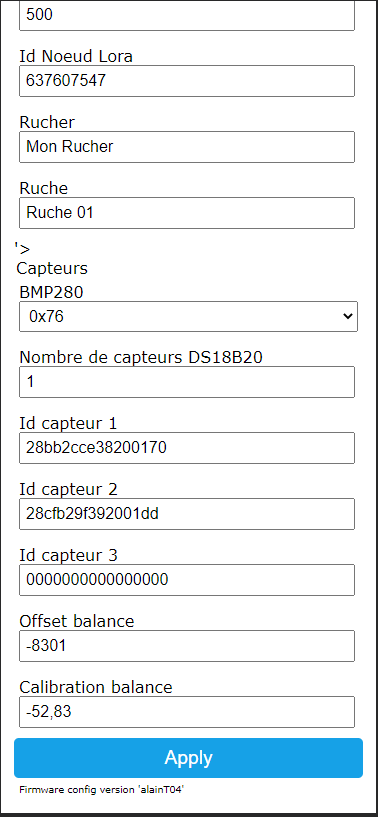
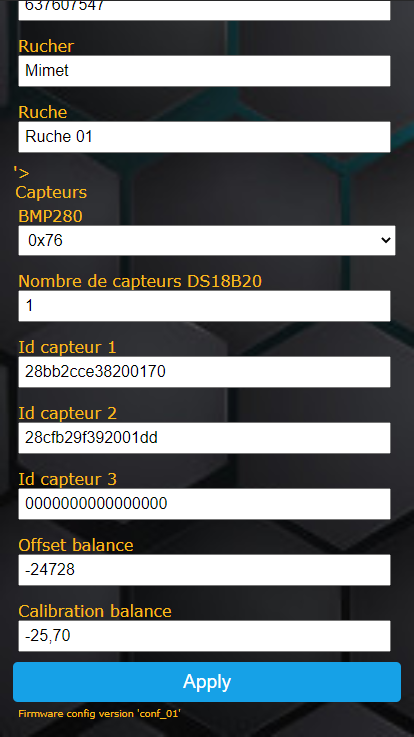
New Design Web Server

diff --git a/src/style.h b/src/style.h
@@ -1,0 +1,31 @@
+/*
+
+This program is free software: you can redistribute it and/or modify
+it under the terms of the GNU General Public License as published by
+the Free Software Foundation, either version 3 of the License, or
+(at your option) any later version.
+
+This program is distributed in the hope that it will be useful,
+but WITHOUT ANY WARRANTY; without even the implied warranty of
+MERCHANTABILITY or FITNESS FOR A PARTICULAR PURPOSE.  See the
+GNU General Public License for more details.
+
+You should have received a copy of the GNU General Public License
+along with this program.  If not, see <http://www.gnu.org/licenses/>.
+
+*/
+
+/*
+The credit for the background image is fot 
+<a href="http://www.freepik.com">Designed by pikisuperstar / Freepik</a>
+*/
+
+#ifndef style_h
+#define style_h
+#include <string>
+
[1 lines of base64/hex data omitted]
+
[1 lines of base64/hex data omitted]
+
+#endif
